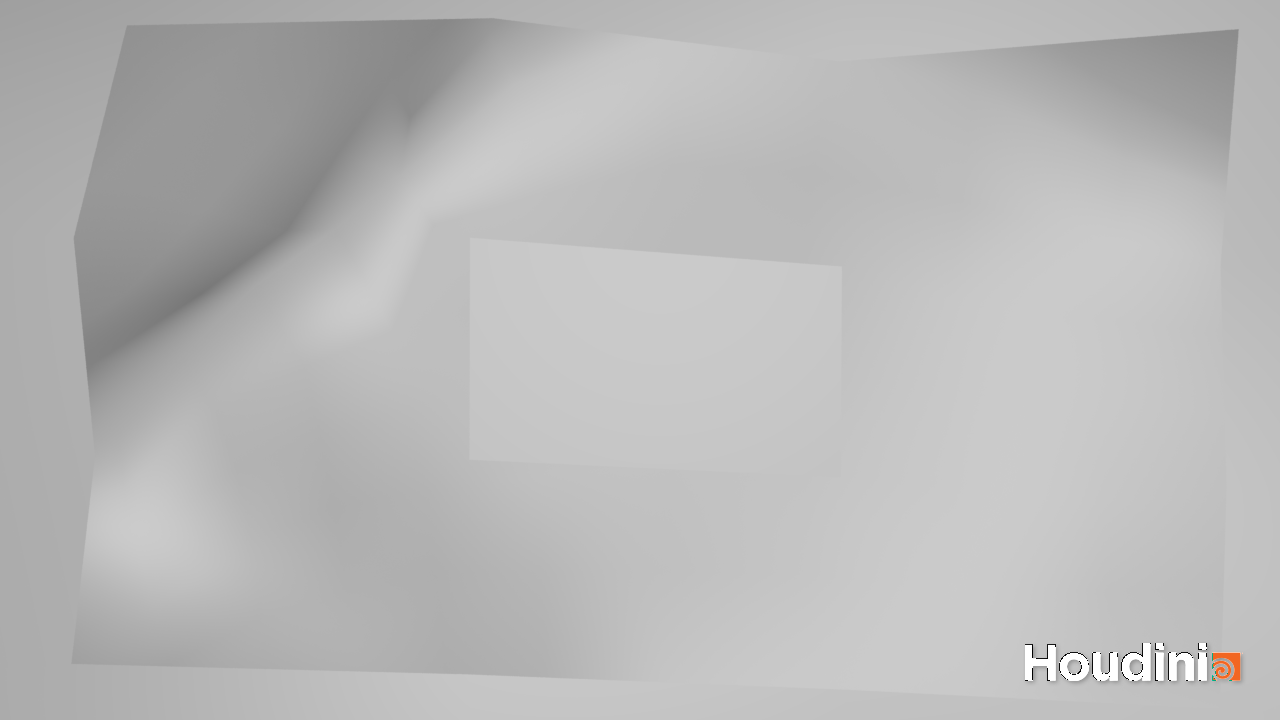
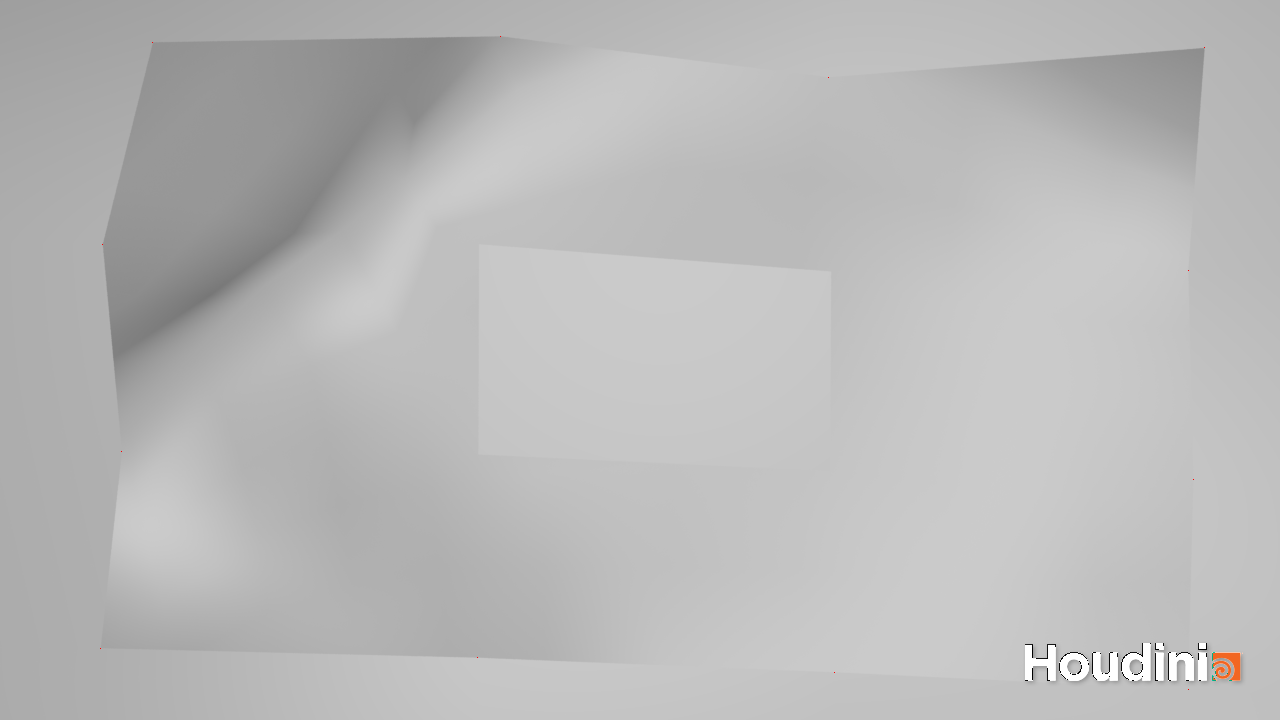
3d points mapped to 2d

diff --git a/prepare_2d.py b/prepare_2d.py
@@ -1,14 +1,15 @@
 import os.path
 import time
+import PIL
 from PIL import Image, ImageDraw
 node = hou.pwd()
 geo = node.geometry()
 boundaries = node.inputs()[1].geometry().pointGroups()
 
-pos = geo.findPointAttrib("pos")
+cam = geo.findPointAttrib("cam")
 pix = geo.findPointAttrib("pix")
 path_name = hou.hipFile.name().split(".")[0]
-if (pos and pix):
+if (cam and pix):
   i = 0
   for boundary in boundaries:
     if i == 0:
@@ -18,16 +19,20 @@ if (pos and pix):
     pix_pos = []
     points = boundaries[i].points()
     for point in points:
-      cam_pos.append(point.attribValue(pos)[i])
-      pix_pos.append(point.attribValue(pix)[i])
-    if i == 1:
-      print("Pixels")
-      print(pix_pos)
+      cam_attrib = point.attribValue(cam)
+      pix_attrib = point.attribValue(pix)
+      cam_point = (cam_attrib[(i-1) * 3], cam_attrib[(i-1) * 3 + 1], cam_attrib[(i-1) * 3 + 2])
+      pix_point = (pix_attrib[(i-1) * 3], pix_attrib[(i-1) * 3 + 1], pix_attrib[(i-1) * 3 + 2])
+      cam_pos.append(cam_point)
+      pix_pos.append(pix_point)
     while (os.path.isfile(path_name + "/opening_" + str(i) + ".png.mantra_checkpoint")):
-      time.sleep(1) # Wait until image is rendered
+      time.sleep(1) # This image has not yet been rendered
     image = Image.open(path_name + "/opening_" + str(i) + ".png")
+    # Pixel y coordinates are inversed. So we flip vertically the image, draw and flip back
+    image = image.transpose(PIL.Image.FLIP_TOP_BOTTOM)
     draw = ImageDraw.Draw(image)
     for j in range(len(points)):
       draw.point((int(pix_pos[j][0]), int(pix_pos[j][1])), "red")
+    image = image.transpose(PIL.Image.FLIP_TOP_BOTTOM)
     image.save(path_name + "/opening_" + str(i) + ".png")
     i += 1

diff --git a/prepare_3d.py b/prepare_3d.py
@@ -93,7 +93,7 @@ for boundary in boundaries:
                           0, plane_normal[1]/d, v/d, 0, 
                           0, 0, 0, 1))
   camera.setWorldTransform(rotation_x * rotation_y * translation)
-  resolution = (1920, 1080)
+  resolution = (1280, 720)
   camera.parm('resx').set(resolution[0])
   camera.parm('resy').set(resolution[1])
   resolutions_x.append(resolution[0])
